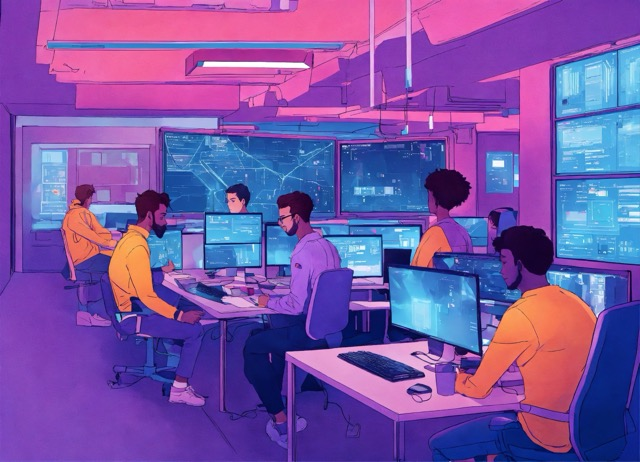
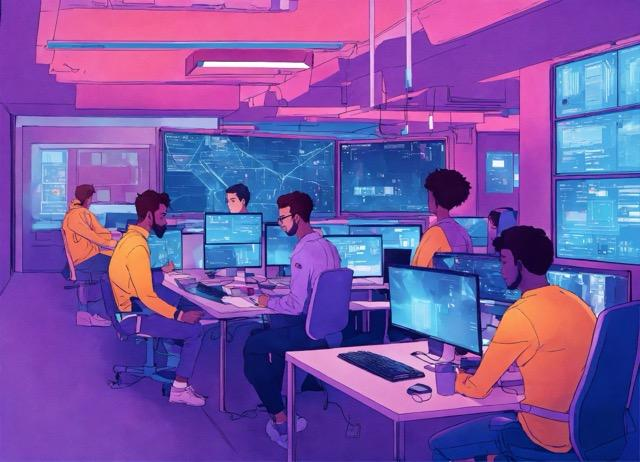
Novas imagens

diff --git a/index.html b/index.html
@@ -27,7 +27,7 @@ feature_row:
     url: "/team/"
     btn_label: "Read More"
     btn_class: "btn--primary"
-  - image_path: /assets/images/results.jpg
+  - image_path: /assets/images/result-med.jpeg
     image_width: "100%"
     image_height: "225px"
     alt: "Results"
